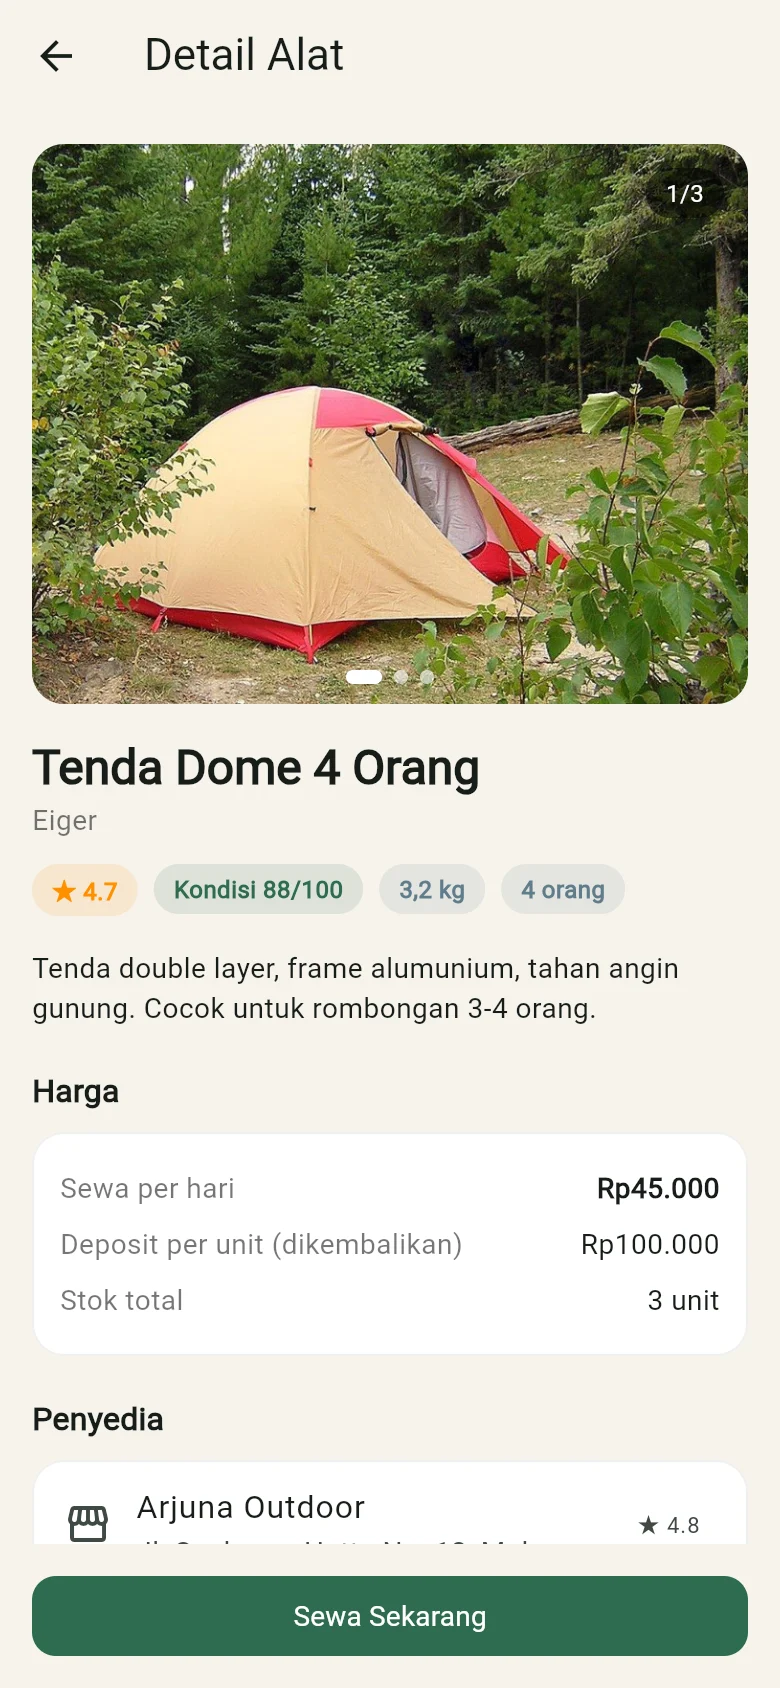
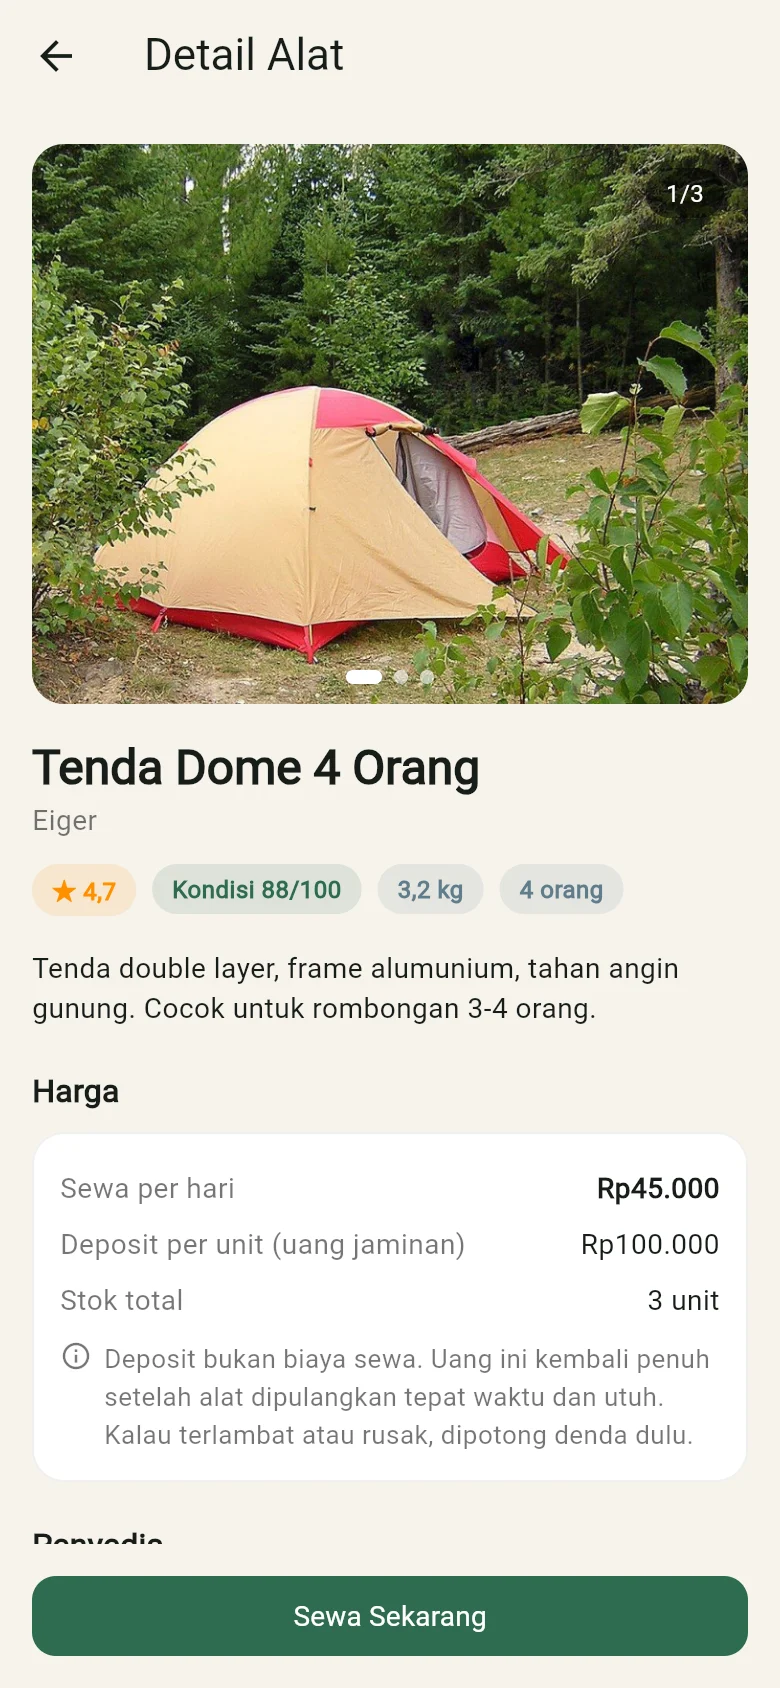
Update the sidang deck: algorithm types, registration, 216 tests
Adds a slide that sorts the app's algorithms by type, in the format the lecturer uses. Moves AI advice, the in-app map, the online server and registration to the finished list. Retakes the equipment screenshot with the new deposit wording.

diff --git a/presentasi/index.html b/presentasi/index.html
@@ -231,21 +231,22 @@
     <div class="belah">
       <div class="papan" data-in>
         <h3 class="sub">Dikerjakan pada tahap ini</h3>
-        <ul class="daftar">
-          <li><svg viewBox="0 0 38 38" class="ikon hijau"><path d="M8 20l7 7 15-16"/></svg><p>Aplikasi Flutter untuk Android dan web, dengan tiga peran pengguna.</p></li>
-          <li><svg viewBox="0 0 38 38" class="ikon hijau"><path d="M8 20l7 7 15-16"/></svg><p>Daftar toko dengan rating, ulasan, follow, dan lokasi Google Maps.</p></li>
-          <li><svg viewBox="0 0 38 38" class="ikon hijau"><path d="M8 20l7 7 15-16"/></svg><p>Booking, jaminan dokumen, dan alur status sampai selesai.</p></li>
-          <li><svg viewBox="0 0 38 38" class="ikon hijau"><path d="M8 20l7 7 15-16"/></svg><p>Pembayaran lewat transfer bank dengan unggah foto bukti transfer.</p></li>
-          <li><svg viewBox="0 0 38 38" class="ikon hijau"><path d="M8 20l7 7 15-16"/></svg><p>Denda keterlambatan dan kerusakan, serta blacklist penyewa.</p></li>
-          <li><svg viewBox="0 0 38 38" class="ikon hijau"><path d="M8 20l7 7 15-16"/></svg><p>Server Laravel dan MySQL. Aplikasi bisa memakai data di perangkat atau di server.</p></li>
+        <ul class="daftar padat">
+          <li><svg viewBox="0 0 38 38" class="ikon hijau"><path d="M8 20l7 7 15-16"/></svg><p>Aplikasi Android dan web, tiga peran, dan daftar akun.</p></li>
+          <li><svg viewBox="0 0 38 38" class="ikon hijau"><path d="M8 20l7 7 15-16"/></svg><p>Daftar toko dengan rating, ulasan, follow, dan peta.</p></li>
+          <li><svg viewBox="0 0 38 38" class="ikon hijau"><path d="M8 20l7 7 15-16"/></svg><p>Booking, jaminan dokumen, dan alur status.</p></li>
+          <li><svg viewBox="0 0 38 38" class="ikon hijau"><path d="M8 20l7 7 15-16"/></svg><p>Bayar lewat transfer dengan foto bukti.</p></li>
+          <li><svg viewBox="0 0 38 38" class="ikon hijau"><path d="M8 20l7 7 15-16"/></svg><p>Denda terlambat dan rusak, serta blacklist.</p></li>
+          <li><svg viewBox="0 0 38 38" class="ikon hijau"><path d="M8 20l7 7 15-16"/></svg><p>Server Laravel yang sudah online.</p></li>
+          <li><svg viewBox="0 0 38 38" class="ikon hijau"><path d="M8 20l7 7 15-16"/></svg><p>Saran AI: paket alat, denda, dan foto kondisi alat.</p></li>
         </ul>
       </div>
       <div class="papan putus" data-step="1">
         <h3 class="sub">Dikerjakan setelah tahap ini</h3>
         <ul class="daftar">
-          <li><svg viewBox="0 0 38 38" class="ikon"><circle cx="19" cy="19" r="12"/><path d="M19 11v8l6 4"/></svg><p>Fitur AI: rekomendasi paket alat dan pemeriksaan kondisi alat.</p></li>
-          <li><svg viewBox="0 0 38 38" class="ikon"><circle cx="19" cy="19" r="12"/><path d="M19 11v8l6 4"/></svg><p>Login dengan akun Google, dan peta yang tertanam di aplikasi.</p></li>
-          <li><svg viewBox="0 0 38 38" class="ikon"><circle cx="19" cy="19" r="12"/><path d="M19 11v8l6 4"/></svg><p>Payment gateway dan versi iOS.</p></li>
+          <li><svg viewBox="0 0 38 38" class="ikon"><circle cx="19" cy="19" r="12"/><path d="M19 11v8l6 4"/></svg><p>Login dengan akun Google. Kodenya sudah dibuat dan sedang diuji.</p></li>
+          <li><svg viewBox="0 0 38 38" class="ikon"><circle cx="19" cy="19" r="12"/><path d="M19 11v8l6 4"/></svg><p>Payment gateway, supaya pembayaran tercatat otomatis.</p></li>
+          <li><svg viewBox="0 0 38 38" class="ikon"><circle cx="19" cy="19" r="12"/><path d="M19 11v8l6 4"/></svg><p>Versi iOS.</p></li>
         </ul>
       </div>
     </div>
@@ -317,6 +318,48 @@
   <section class="slide" id="alur" data-pos="Pos 6" data-label="Perancangan">
     <h2 class="head">Alur status transaksi</h2>
     <div class="alur" id="alur-diagram"></div>
+  </section>
+
+  <section class="slide" id="jenis" data-pos="Pos 6" data-label="Perancangan">
+    <h2 class="head">Jenis algoritma yang dipakai</h2>
+    <div class="jenis-kisi">
+      <article class="jenis" data-in style="--w: var(--ember)">
+        <header><b class="angka">1</b><h3>Sequential</h3></header>
+        <p class="arti">Langkah dijalankan berurutan dari awal sampai akhir.</p>
+        <svg viewBox="0 0 450 96" class="skema" aria-hidden="true"><rect x="2" y="24" width="186" height="48" rx="10"/><text x="95" y="55">Sewa × unit × hari</text><path class="panah" d="M190 48H212"/><path class="mata" d="M203 42l9 6-9 6"/><rect x="214" y="24" width="112" height="48" rx="10"/><text x="270" y="55">+ Deposit</text><path class="panah" d="M328 48H350"/><path class="mata" d="M341 42l9 6-9 6"/><rect class="isi" x="352" y="24" width="96" height="48" rx="10"/><text x="400" y="55">Total</text></svg>
+        <p class="guna"><b>Di RentGear</b>Menghitung total bayar: sewa kali unit kali hari, lalu ditambah deposit.</p>
+      </article>
+      <article class="jenis" data-in style="--w: var(--moss)">
+        <header><b class="angka">2</b><h3>Selection</h3></header>
+        <p class="arti">Memilih jalur berdasarkan suatu kondisi.</p>
+        <svg viewBox="0 0 450 96" class="skema" aria-hidden="true"><path class="belah-ketupat" d="M2 48L92 8l90 40-90 40z"/><text x="92" y="55">Sewa besar?</text><path class="panah" d="M182 48H214V24H246"/><path class="mata" d="M237 18l9 6-9 6"/><text class="kecil-t" x="200" y="20">Ya</text><path class="panah" d="M214 48V72H246"/><path class="mata" d="M237 66l9 6-9 6"/><text class="kecil-t" x="190" y="90">Tidak</text><rect class="isi" x="248" y="4" width="200" height="40" rx="10"/><text x="348" y="31">2 dokumen jaminan</text><rect x="248" y="52" width="200" height="40" rx="10"/><text x="348" y="79">1 dokumen jaminan</text></svg>
+        <p class="guna"><b>Di RentGear</b>Sewa bernilai besar wajib 2 dokumen jaminan, selain itu cukup 1.</p>
+      </article>
+      <article class="jenis" data-in style="--w: var(--summit)">
+        <header><b class="angka">3</b><h3>Iteration</h3></header>
+        <p class="arti">Mengulang proses sampai kondisi terpenuhi.</p>
+        <svg viewBox="0 0 450 96" class="skema" aria-hidden="true"><rect x="2" y="4" width="82" height="40" rx="10"/><text x="43" y="31">1 Okt</text><rect x="92" y="4" width="82" height="40" rx="10"/><text x="133" y="31">2 Okt</text><rect class="isi" x="182" y="4" width="82" height="40" rx="10"/><text x="223" y="31">3 Okt</text><rect x="272" y="4" width="82" height="40" rx="10"/><text x="313" y="31">4 Okt</text><rect x="362" y="4" width="82" height="40" rx="10"/><text x="403" y="31">5 Okt</text><path class="panah" d="M403 44v26a12 12 0 0 1-12 12H55a12 12 0 0 1-12-12V54"/><path class="mata" d="M37 62l6-9 6 9"/><text class="kecil-t" x="223" y="74">ulangi untuk tiap tanggal sewa</text></svg>
+        <p class="guna"><b>Di RentGear</b>Cek stok: tanggal sewa diperiksa satu per satu untuk mencari hari tersibuk.</p>
+      </article>
+      <article class="jenis" data-in style="--w: var(--moss)">
+        <header><b class="angka">4</b><h3>Searching</h3></header>
+        <p class="arti">Mencari data tertentu dalam kumpulan data.</p>
+        <svg viewBox="0 0 450 96" class="skema" aria-hidden="true"><rect class="isi" x="2" y="4" width="105" height="40" rx="10"/><text x="54.5" y="31">Tenda</text><rect x="115" y="4" width="105" height="40" rx="10"/><text x="167.5" y="31">Carrier</text><rect x="228" y="4" width="105" height="40" rx="10"/><text x="280.5" y="31">Kompor</text><rect x="341" y="4" width="105" height="40" rx="10"/><text x="393.5" y="31">Sepatu</text><circle class="lup" cx="24" cy="72" r="11"/><path class="lup" d="M32 80l10 10"/><text class="kiri" x="56" y="80">kata kunci: “tenda”</text></svg>
+        <p class="guna"><b>Di RentGear</b>Kotak cari di katalog mencocokkan kata kunci dengan nama dan merek alat.</p>
+      </article>
+      <article class="jenis" data-in style="--w: var(--summit)">
+        <header><b class="angka">5</b><h3>Sorting</h3></header>
+        <p class="arti">Mengurutkan data menurut urutan tertentu.</p>
+        <svg viewBox="0 0 450 96" class="skema" aria-hidden="true"><rect x="2" y="24" width="96" height="48" rx="10"/><text x="50" y="55">615 km</text><rect x="104" y="24" width="96" height="48" rx="10"/><text x="152" y="55">562 km</text><path class="panah" d="M210 48H240"/><path class="mata" d="M231 42l9 6-9 6"/><rect class="isi" x="250" y="24" width="96" height="48" rx="10"/><text x="298" y="55">562 km</text><rect x="352" y="24" width="96" height="48" rx="10"/><text x="400" y="55">615 km</text></svg>
+        <p class="guna"><b>Di RentGear</b>Toko diurutkan dari yang paling dekat dengan lokasi penyewa.</p>
+      </article>
+      <article class="jenis" data-in style="--w: var(--ember)">
+        <header><b class="angka">6</b><h3>Machine Learning</h3></header>
+        <p class="arti">Model belajar dari data, lalu memberi prediksi atau saran.</p>
+        <svg viewBox="0 0 450 96" class="skema" aria-hidden="true"><rect x="2" y="24" width="150" height="48" rx="10"/><text x="77" y="55">Data dan foto</text><path class="panah" d="M154 48H176"/><path class="mata" d="M167 42l9 6-9 6"/><rect class="isi" x="178" y="24" width="150" height="48" rx="10"/><text x="253" y="55">Model Gemini</text><path class="panah" d="M330 48H352"/><path class="mata" d="M343 42l9 6-9 6"/><rect x="354" y="24" width="94" height="48" rx="10"/><text x="401" y="55">Saran</text></svg>
+        <p class="guna"><b>Di RentGear</b>Saran paket alat, pendapat soal denda, dan pembanding foto kondisi.</p>
+      </article>
+    </div>
   </section>
 
   <section class="slide" id="algoritma" data-pos="Pos 6" data-label="Perancangan">
@@ -431,8 +474,8 @@
     <h2 class="head">Pengujian</h2>
     <div class="uji">
       <div data-in>
-        <p class="skor"><b class="angka" id="skor">205</b><span>dari 205</span></p>
-        <p class="teks">skenario tes otomatis lulus: 93 di aplikasi, 112 di server.</p>
+        <p class="skor"><b class="angka" id="skor">216</b><span>dari 216</span></p>
+        <p class="teks">skenario tes otomatis lulus: 97 di aplikasi, 119 di server.</p>
         <p class="kecil jelas">Tes otomatis adalah kode yang menjalankan aplikasi lalu memeriksa sendiri hasilnya. Dijalankan dengan <code>flutter test</code> dan <code>php artisan test</code>.</p>
       </div>
       <div class="narasi">
@@ -440,22 +483,23 @@
           <ul class="kelompok" data-in>
             <li><h3>Aplikasi: sewa, stok, jaminan, foto kondisi <b>26</b></h3><div class="titik-uji" data-n="26"></div><p>Contoh: booking dobel ditolak, booking tanpa jaminan ditolak, NIK yang salah ditolak.</p></li>
             <li><h3>Aplikasi: denda, blacklist, toko, peta, audit <b>35</b></h3><div class="titik-uji" data-n="35"></div><p>Contoh: telat 3 hari dihitung 1,5 kali tarif, rating toko adalah rata-rata ulasan.</p></li>
-            <li><h3>Aplikasi: layar dan format <b>19</b></h3><div class="titik-uji" data-n="19"></div><p>Contoh: halaman awal menampilkan toko, 45000 tampil sebagai Rp 45.000.</p></li>
-            <li><h3>Aplikasi: sambungan ke server <b>13</b></h3><div class="titik-uji" data-n="13"></div><p>Contoh: galat dari server tampil dengan pesan yang sama, server mati tidak membuat aplikasi macet.</p></li>
+            <li><h3>Aplikasi: layar dan format <b>22</b></h3><div class="titik-uji" data-n="22"></div><p>Contoh: halaman awal menampilkan toko, formulir daftar menahan email yang salah.</p></li>
+            <li><h3>Aplikasi: sambungan ke server <b>14</b></h3><div class="titik-uji" data-n="14"></div><p>Contoh: galat dari server tampil dengan pesan yang sama, server mati tidak membuat aplikasi macet.</p></li>
             <li><h3>Server: aturan inti <b>26</b></h3><div class="titik-uji" data-n="26"></div><p>Kasus yang sama dengan tes aplikasi, untuk membuktikan dua sisi menghitung angka yang sama.</p></li>
-            <li><h3>Server: API <b>86</b></h3><div class="titik-uji" data-n="86"></div><p>Contoh: unit terakhir hanya jatuh ke satu booking, toko lain ditolak, foto KTP tidak bisa dibuka orang lain.</p></li>
+            <li><h3>Server: API <b>93</b></h3><div class="titik-uji" data-n="93"></div><p>Contoh: unit terakhir hanya jatuh ke satu booking, email yang sudah terdaftar ditolak, foto KTP tidak bisa dibuka orang lain.</p></li>
           </ul>
         </div>
         <table class="tabel-uji" data-step="1">
           <caption class="sub">Uji langsung di HP Redmi 17, emulator, dan browser</caption>
           <tbody>
-            <tr><td>Sewa lengkap: booking, konfirmasi, bukti transfer, serah terima, pengembalian</td><td><svg viewBox="0 0 30 30" class="ikon hijau"><path d="M6 16l6 6 12-13"/></svg>Lulus</td></tr>
+            <tr><td>Sewa lengkap dari booking sampai pengembalian</td><td><svg viewBox="0 0 30 30" class="ikon hijau"><path d="M6 16l6 6 12-13"/></svg>Lulus</td></tr>
             <tr><td>Jaminan ditolak, booking ditolak, lalu stok bisa dipesan lagi</td><td><svg viewBox="0 0 30 30" class="ikon hijau"><path d="M6 16l6 6 12-13"/></svg>Lulus</td></tr>
             <tr><td>Admin: dashboard, verifikasi penyedia, daftar transaksi</td><td><svg viewBox="0 0 30 30" class="ikon hijau"><path d="M6 16l6 6 12-13"/></svg>Lulus</td></tr>
             <tr><td>Ukuran font sistem 1,3 kali, setelah 3 perbaikan tata letak</td><td><svg viewBox="0 0 30 30" class="ikon hijau"><path d="M6 16l6 6 12-13"/></svg>Lulus</td></tr>
             <tr><td>Denda dan blacklist di HP: telat, rusak, keberatan penyewa, keputusan admin</td><td><svg viewBox="0 0 30 30" class="ikon hijau"><path d="M6 16l6 6 12-13"/></svg>Lulus</td></tr>
-            <tr><td>HP dan web lewat server: sewa lengkap sampai denda diputuskan admin</td><td><svg viewBox="0 0 30 30" class="ikon hijau"><path d="M6 16l6 6 12-13"/></svg>Lulus</td></tr>
+            <tr><td>HP dan web lewat server: sewa sampai denda diputuskan</td><td><svg viewBox="0 0 30 30" class="ikon hijau"><path d="M6 16l6 6 12-13"/></svg>Lulus</td></tr>
             <tr><td>Versi web pada lebar 390, 820, dan 1440 piksel</td><td><svg viewBox="0 0 30 30" class="ikon hijau"><path d="M6 16l6 6 12-13"/></svg>Lulus</td></tr>
+            <tr><td>Daftar akun penyewa dan penyedia di server publik</td><td><svg viewBox="0 0 30 30" class="ikon hijau"><path d="M6 16l6 6 12-13"/></svg>Lulus</td></tr>
           </tbody>
         </table>
       </div>
@@ -478,10 +522,9 @@
       <div class="papan putus" data-step="1">
         <h3 class="sub">Rencana lanjutan</h3>
         <ul class="daftar rencana">
-          <li><span class="urut">Berikutnya</span><p>Fitur AI: rekomendasi paket alat dan pemeriksaan kondisi alat.</p></li>
-          <li><span class="urut">Berikutnya</span><p>Login dengan akun Google.</p></li>
-          <li><span class="urut">Menyusul</span><p>Peta yang tertanam di dalam aplikasi.</p></li>
-          <li><span class="urut">Menyusul</span><p>Payment gateway dan versi iOS.</p></li>
+          <li><span class="urut">Berikutnya</span><p>Login dengan akun Google. Kodenya sudah dibuat dan sedang diuji.</p></li>
+          <li><span class="urut">Menyusul</span><p>Payment gateway, supaya pembayaran tercatat otomatis.</p></li>
+          <li><span class="urut">Menyusul</span><p>Versi iOS.</p></li>
         </ul>
       </div>
     </div>

diff --git a/presentasi/deck.css b/presentasi/deck.css
@@ -397,6 +397,9 @@ ol, ul { list-style: none; }
   border: 1.5px solid var(--line);
 }
 .papan.putus { border-style: dashed; }
+/* Daftar tujuh butir di slide batasan. */
+.daftar.padat { gap: 16px; }
+.daftar.padat li { font-size: 29px; }
 .ikon.hijau { stroke: var(--moss); }
 .ikon.pudar { stroke: var(--mist); stroke-dasharray: 3 5; }
 
@@ -469,6 +472,23 @@ ol, ul { list-style: none; }
 .sapu { position: absolute; top: 40px; bottom: 0; left: 150px; width: 4px; margin-left: -2px; border-radius: 2px; background: var(--summit); opacity: 0; will-change: transform; }
 
 /* Kolom penjelasan: satu blok tampil bergantian di tempat yang sama. */
+/* Slide jenis algoritma: enam kartu, tiap kartu satu jenis dan pemakaiannya di aplikasi. */
+.jenis-kisi { display: grid; grid-template-columns: repeat(3, 1fr); gap: 22px; margin-top: 34px; }
+.jenis { padding: 22px 24px 24px; border-radius: 20px; background: var(--panel); border: 1.5px solid var(--line); border-top: 5px solid var(--w); }
+.jenis header { display: flex; align-items: center; gap: 14px; }
+.jenis .angka { display: grid; place-items: center; width: 46px; height: 46px; border-radius: 12px; background: var(--w); color: var(--night); font-family: var(--display); font-weight: 800; font-size: 32px; }
+.jenis h3 { font-family: var(--display); font-weight: 800; font-size: 42px; line-height: 1; }
+.jenis .arti { margin-top: 10px; font-size: 23px; line-height: 1.3; color: var(--mist); }
+.jenis .guna { font-size: 24px; line-height: 1.32; color: var(--sand); }
+.jenis .guna b { display: block; margin-bottom: 2px; font-size: 19px; font-weight: 600; letter-spacing: 0.08em; text-transform: uppercase; color: var(--w); }
+.skema { display: block; width: 100%; margin: 14px 0 12px; overflow: visible; }
+.skema rect, .skema .belah-ketupat { fill: rgba(183, 201, 189, 0.08); stroke: var(--mist); stroke-width: 1.5; }
+.skema rect.isi { fill: color-mix(in srgb, var(--w) 24%, transparent); stroke: var(--w); }
+.skema .panah, .skema .mata, .skema .lup { fill: none; stroke: var(--w); stroke-width: 2.5; stroke-linecap: round; stroke-linejoin: round; }
+.skema text { fill: var(--sand); font-family: var(--body); font-size: 19px; text-anchor: middle; }
+.skema text.kecil-t { fill: var(--mist); font-size: 17px; }
+.skema text.kiri { fill: var(--mist); text-anchor: start; }
+
 .narasi { display: grid; align-items: start; }
 .narasi > * { grid-area: 1 / 1; }
 .blok h3 { font-family: var(--display); font-weight: 800; font-size: 52px; line-height: 1; margin-bottom: 14px; color: var(--ember); }
@@ -576,6 +596,9 @@ ol, ul { list-style: none; }
 .tabel-uji td { padding: 15px 0; border-top: 1.5px solid var(--line); vertical-align: top; }
 .tabel-uji td:last-child { width: 150px; padding-left: 24px; white-space: nowrap; color: var(--moss); font-weight: 600; }
 .tabel-uji svg { width: 30px; height: 30px; vertical-align: -6px; margin-right: 8px; }
+/* Baris "Intinya" muncul bersama tabel, yang lebih pendek dari daftar kelompok tes di bawahnya. Tanpa ini
+   baris keduanya keluar dari panggung. */
+#pengujian .inti { margin-top: -44px; }
 
 /* ---------- penutup ---------- */
 

diff --git a/presentasi/deck.js b/presentasi/deck.js
@@ -656,7 +656,7 @@ const adegan = {
 
   pengujian: {
     masuk(tl) {
-      tl.add(hitung($('#skor'), 0, 205, 1.6, 'power1.out'), 0.6)
+      tl.add(hitung($('#skor'), 0, 216, 1.6, 'power1.out'), 0.6)
         .from('.titik-uji i', { autoAlpha: 0, scale: 0.4, duration: d(0.35), ease: 'back.out(2)', stagger: 0.012 }, 0.6)
         .call(() => ledakkan($('#skor'), 110), null, 2.2)
         .fromTo('#skor', { scale: 1 }, { scale: 1.14, duration: d(0.22), ease: 'power2.out', yoyo: true, repeat: 1, transformOrigin: 'left bottom' }, 2.2);

diff --git a/presentasi/README.md b/presentasi/README.md
@@ -17,9 +17,9 @@ Clicker presentasi mengirim Page Down dan Page Up, jadi bisa langsung dipakai. A
 
 ## Isi
 
-21 slide dengan urutan sidang: judul, filosofi logo, latar belakang (data usaha sewa alat, kasus nyata di toko sewa,
+22 slide dengan urutan sidang: judul, filosofi logo, latar belakang (data usaha sewa alat, kasus nyata di toko sewa,
 ringkasan masalah), rumusan masalah, tujuan dan manfaat, inovasi, batasan masalah, metode, perancangan (alur bisnis, peran, alur
-status, algoritma ketersediaan, susunan aplikasi), implementasi (screenshot dan video), pengujian, kesimpulan dan
+status, jenis algoritma yang dipakai, algoritma ketersediaan, susunan aplikasi), implementasi (screenshot dan video), pengujian, kesimpulan dan
 rencana lanjutan, sumber data, lalu tanya jawab. Latar gunung ikut naik dari basecamp saat senja sampai puncak saat matahari
 terbit.
 
@@ -55,9 +55,13 @@ terbit.
 
 ## Catatan
 
-- Rumusan masalah, tujuan, dan kesimpulan ditulis untuk fitur yang sudah ada di aplikasi. Server Laravel, fitur AI,
-  halaman toko penyedia, login Google, payment gateway, dan iOS ditulis sebagai rencana kerja ("dikerjakan setelah tahap ini"), bukan
-  saran. Denda, blacklist, dan halaman toko sudah dibuat. Rencana lengkapnya ada di `../docs/08-RENCANA-KERJA.md`.
+- Rumusan masalah, tujuan, dan kesimpulan ditulis untuk fitur yang sudah ada di aplikasi. Login Google (kodenya sudah
+  dibuat, masih diuji), payment gateway, dan iOS ditulis sebagai rencana kerja ("dikerjakan setelah tahap ini"), bukan
+  saran. Server Laravel yang sudah online, saran AI, peta di dalam aplikasi, daftar akun, denda, blacklist, dan halaman
+  toko sudah dibuat. Rencana lengkapnya ada di `../docs/08-RENCANA-KERJA.md`.
+- Slide "Jenis algoritma yang dipakai" mengikuti pembagian jenis algoritma dari kuliah (sequential, selection, iteration,
+  searching, sorting, machine learning). Hanya jenis yang benar-benar ada di kode yang dimasukkan. Machine learning di
+  sini berarti aplikasi memakai model Gemini milik Google, bukan melatih model sendiri.
 - Semua sumber latar belakang membahas usaha sewa alat, tidak ada data jumlah pendaki atau kecelakaan. Tiap sumber
   ditulis dengan URL di slide tempat ia dipakai dan di slide "Sumber data". Tautannya bisa diklik.
 - Skor risiko Lentera Camp (Ramadhan dkk. 2025, Tabel 5), masalah PT ABC (Nurjanah dkk. 2025), dan artikel detikFinance
@@ -68,5 +72,5 @@ terbit.
   alamat halaman jurnalnya.
 - Belum ada sumber untuk klaim "penyewa tidak tahu tempat sewa". Klaim itu tidak ada di slide.
 - Makna logo dan "arah berikutnya" di slide alur bisnis (komisi per transaksi) adalah usulan, belum keputusan.
-- Angka pengujian (205 tes: 93 aplikasi dan 112 server, hasil uji di Redmi 17 dan browser) berasal dari `../rentgear_app/HANDOFF.md`. Kalau jumlah tes
+- Angka pengujian (216 tes: 97 aplikasi dan 119 server, hasil uji di Redmi 17 dan browser) berasal dari `../rentgear_app/HANDOFF.md`. Kalau jumlah tes
   berubah, perbarui slide Pengujian dan angka di `adegan.pengujian` pada `deck.js`.
